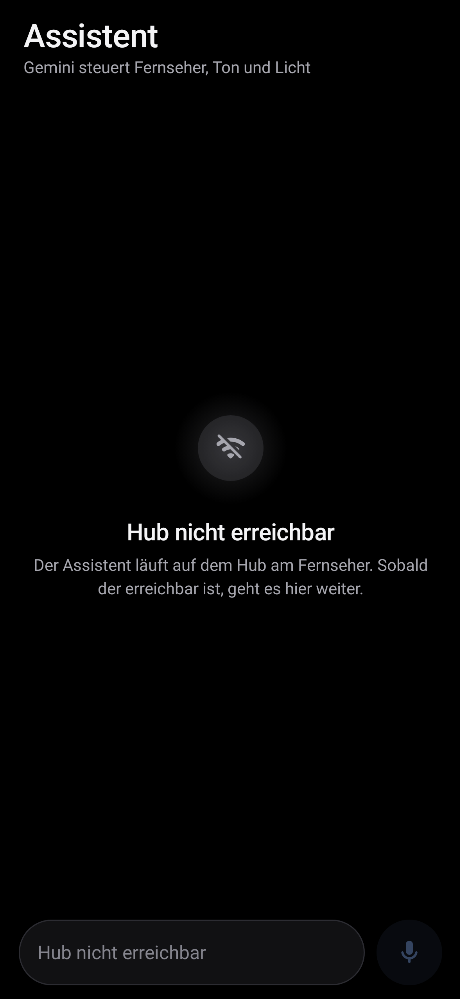
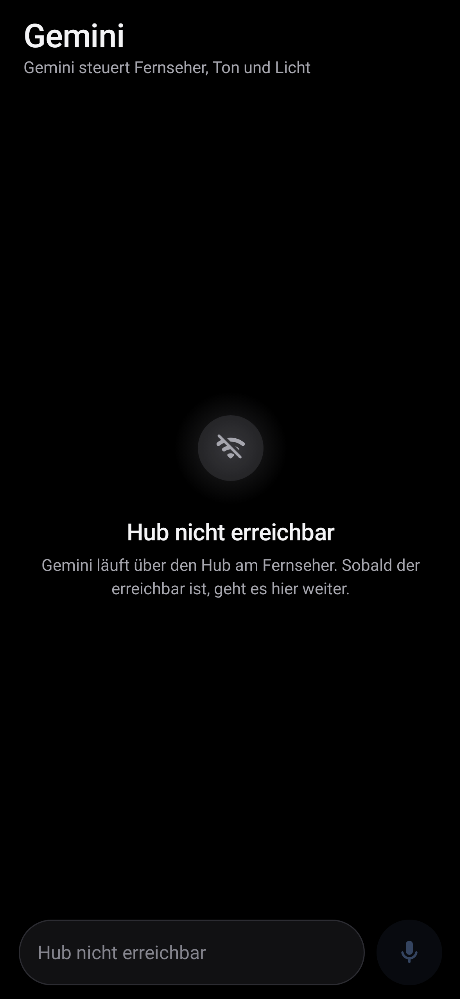
Use the hub's terms: Display aus, Smart Home, Gemini
Same words on TV and phone: "Bild aus" -> "Display aus", "Zuhause" ->
"Smart Home", "Assistent" -> "Gemini" (tab, screen, widget, tile,
notification, shortcuts, README). Screenshots regenerated.

Changed region(s): [[0.0609, 0.5586, 0.9435, 0.6206], [0.0609, 0.0, 0.3348, 0.0621]]

diff --git a/app/src/main/java/com/modernlghub/remote/ui/screens/AssistantScreen.kt b/app/src/main/java/com/modernlghub/remote/ui/screens/AssistantScreen.kt
@@ -168,7 +168,7 @@ class AssistantController(
 }
 
 private val SUGGESTIONS = listOf(
-    "Mach das Bild aus, die Musik soll weiterlaufen",
+    "Mach das Display aus, die Musik soll weiterlaufen",
     "PC an und Game Optimizer",
     "Filmabend: TV-Licht an, Netflix starten",
     "Alles aus",
@@ -214,7 +214,7 @@ fun AssistantScreen(
 
     Column(modifier.fillMaxSize()) {
         ScreenHeader(
-            "Assistent",
+            "Gemini",
             subtitle = "Gemini steuert Fernseher, Ton und Licht",
             modifier = Modifier.padding(horizontal = Spacing.Gutter).padding(top = Spacing.s),
         ) {
@@ -231,7 +231,7 @@ fun AssistantScreen(
                 online && !hasKey -> KeyCard(saveKey, Modifier.verticalScroll(rememberScrollState()))
                 !online && messages.isEmpty() -> StatePanel(
                     title = "Hub nicht erreichbar",
-                    body = "Der Assistent läuft auf dem Hub am Fernseher. Sobald der erreichbar ist, geht es hier weiter.",
+                    body = "Gemini läuft über den Hub am Fernseher. Sobald der erreichbar ist, geht es hier weiter.",
                     icon = Icons.Rounded.WifiOff,
                     tint = TextSecondary,
                     modifier = Modifier.fillMaxSize(),
@@ -396,7 +396,7 @@ private fun ThinkingIndicator() {
     val reduce = LocalReduceMotion.current
     val t = rememberInfiniteTransition(label = "thinking")
     Row(
-        Modifier.semantics { contentDescription = "Assistent denkt nach" },
+        Modifier.semantics { contentDescription = "Gemini denkt nach" },
         verticalAlignment = Alignment.CenterVertically,
     ) {
         Icon(Icons.Rounded.AutoAwesome, contentDescription = null, tint = Accent, modifier = Modifier.size(18.dp))

diff --git a/app/src/main/java/com/modernlghub/remote/system/TvPresenceService.kt b/app/src/main/java/com/modernlghub/remote/system/TvPresenceService.kt
@@ -194,7 +194,7 @@ class TvPresenceService : Service() {
         state.connection == Connection.CONNECTING -> "Verbinde …"
         !state.isOnline -> "Aus"
         state.status.isStandby -> "Standby"
-        state.status.screenOff -> "Bild aus · ${state.status.audio.outputLabel}"
+        state.status.screenOff -> "Display aus · ${state.status.audio.outputLabel}"
         else -> state.status.audio.outputLabel
     }
 
@@ -213,7 +213,7 @@ class TvPresenceService : Service() {
 
         if (on) {
             builder.addAction(action(R.drawable.ic_play, if (playing) "Pause" else "Wiedergabe", ACTION_PLAY, null, 1))
-            builder.addAction(action(R.drawable.ic_oled_off, if (state.status.screenOff) "Bild an" else "Bild aus", null, TvAction.SCREEN.key, 2))
+            builder.addAction(action(R.drawable.ic_oled_off, if (state.status.screenOff) "Display an" else "Display aus", null, TvAction.SCREEN.key, 2))
             builder.addAction(action(R.drawable.ic_mute, if (state.status.audio.muted) "Ton an" else "Stumm", null, TvAction.MUTE.key, 3))
             builder.setStyle(Notification.MediaStyle().setMediaSession(session.sessionToken).setShowActionsInCompactView(0, 1, 2))
         } else {

diff --git a/app/src/main/java/com/modernlghub/remote/data/TvRepository.kt b/app/src/main/java/com/modernlghub/remote/data/TvRepository.kt
@@ -543,7 +543,7 @@ class TvRepository private constructor(private val appContext: Context) {
             notify(
                 when {
                     res is HubResult.Rejected && res.code == 401 -> "Hub verlangt einen gültigen Token (Einstellungen)"
-                    res is HubResult.Rejected -> "Zuhause: ${res.message}"
+                    res is HubResult.Rejected -> "Smart Home: ${res.message}"
                     else -> "Hub antwortet nicht"
                 }
             )
@@ -551,11 +551,11 @@ class TvRepository private constructor(private val appContext: Context) {
         }
         val json = parseObjectOrNull(res.body)
         if (json == null) {
-            notify("Zuhause: unerwartete Antwort")
+            notify("Smart Home: unerwartete Antwort")
             return null
         }
         if (json.str("status") == "error" || json.opt("success") == false) {
-            notify("Zuhause: ${json.str("error").ifBlank { "Fehler" }}")
+            notify("Smart Home: ${json.str("error").ifBlank { "Fehler" }}")
             return null
         }
         return json

diff --git a/app/src/main/java/com/modernlghub/remote/ui/screens/RemoteHeader.kt b/app/src/main/java/com/modernlghub/remote/ui/screens/RemoteHeader.kt
@@ -105,7 +105,7 @@ internal fun statusLine(state: TvState): Pair<Color, String> {
         state.connection == Connection.UNAUTHORIZED -> StatusWarn to "Hub verlangt einen Token"
         state.connection == Connection.OFFLINE -> StatusOff to "Aus oder nicht erreichbar"
         s.isStandby -> StatusWarn to "Standby"
-        s.screenOff -> StatusWarn to "Bild aus · ${s.audio.outputLabel}"
+        s.screenOff -> StatusWarn to "Display aus · ${s.audio.outputLabel}"
         else -> {
             val app = state.appTitle().ifBlank { "Eingeschaltet" }
             StatusOn to "$app · ${s.audio.outputLabel}"
@@ -189,7 +189,7 @@ internal fun RemoteStatePanel(
         )
         else -> StatePanel(
             title = "Fernseher im Standby",
-            body = "Der Hub ist erreichbar, das Bild ist aus.",
+            body = "Der Hub ist erreichbar, das Display ist aus.",
             icon = Icons.Rounded.Tv,
             primary = wake,
             modifier = panel,

diff --git a/app/src/main/java/com/modernlghub/remote/ui/screens/RemoteControls.kt b/app/src/main/java/com/modernlghub/remote/ui/screens/RemoteControls.kt
@@ -119,8 +119,8 @@ internal fun QuickChips(
                 onLongClickLabel = "Audioausgabe wählen", onLongClick = onSoundMenu, onClick = onSound,
             )
             ToggleChip(
-                "Bild aus", active = s.screenOff, icon = Icons.Rounded.DesktopAccessDisabled, modifier = w(1.1f), showIcon = icons,
-                stateLabel = if (s.screenOff) "Bild ist aus" else "Bild ist an", onClick = onScreen,
+                "Display aus", active = s.screenOff, icon = Icons.Rounded.DesktopAccessDisabled, modifier = w(1.1f), showIcon = icons,
+                stateLabel = if (s.screenOff) "Display ist aus" else "Display ist an", onClick = onScreen,
             )
             ToggleChip(
                 "PC", active = s.currentAppId == PC_INPUT_ID, icon = Icons.Rounded.Computer, modifier = w(0.7f), showIcon = icons,

diff --git a/app/src/main/java/com/modernlghub/remote/system/QuickRemoteOverlayActivity.kt b/app/src/main/java/com/modernlghub/remote/system/QuickRemoteOverlayActivity.kt
@@ -232,8 +232,8 @@ fun QuickRemotePanel(state: TvState, actions: OverlayActions, onClose: () -> Uni
                         onClick = actions::sound,
                     )
                     ToggleChip(
-                        "Bild aus", active = state.status.screenOff, icon = Icons.Rounded.DesktopAccessDisabled,
-                        stateLabel = if (state.status.screenOff) "Bild ist aus" else "Bild ist an", modifier = Modifier.weight(1f),
+                        "Display aus", active = state.status.screenOff, icon = Icons.Rounded.DesktopAccessDisabled,
+                        stateLabel = if (state.status.screenOff) "Display ist aus" else "Display ist an", modifier = Modifier.weight(1f),
                         onClick = actions::screen,
                     )
                 }

diff --git a/app/src/main/java/com/modernlghub/remote/ui/screens/SmartHomeScreen.kt b/app/src/main/java/com/modernlghub/remote/ui/screens/SmartHomeScreen.kt
@@ -86,7 +86,7 @@ import kotlinx.coroutines.launch
 private const val LIGHT_UPDATE_INTERVAL_MS = 220L
 
 /**
- * State of the Zuhause tab. Lives above the tab switcher, so the device list, pending toggles and
+ * State of the Smart Home tab. Lives above the tab switcher, so the device list, pending toggles and
  * the last lamp update survive switching tabs (they used to be cancelled mid-flight).
  */
 @Stable
@@ -193,7 +193,7 @@ fun SmartHomeScreen(
     ) {
         item(span = { GridItemSpan(maxLineSpan) }, key = "header") {
             ScreenHeader(
-                "Zuhause",
+                "Smart Home",
                 subtitle = when {
                     devices == null -> "Lichter und Steckdosen"
                     list.isEmpty() -> "Lichter und Steckdosen"

diff --git a/app/src/main/java/com/modernlghub/remote/data/TvAction.kt b/app/src/main/java/com/modernlghub/remote/data/TvAction.kt
@@ -8,7 +8,7 @@ import com.modernlghub.remote.R
  */
 enum class TvAction(val key: String, val label: String, val shortLabel: String, val iconRes: Int) {
     POWER("power", "Ein / Aus", "Power", R.drawable.ic_power),
-    SCREEN("screen_off", "Bildschirm aus / an (Audio läuft weiter)", "Display", R.drawable.ic_oled_off),
+    SCREEN("screen_off", "Display aus / an (Audio läuft weiter)", "Display", R.drawable.ic_oled_off),
     PC("pc", "PC (HDMI 1)", "PC", R.drawable.ic_pc),
     REMOTE("overlay", "Mini-Fernbedienung öffnen", "Remote", R.drawable.ic_remote),
     AUDIO("audio_toggle", "Audio: Denon ⇄ TV", "Audio", R.drawable.ic_audio),

diff --git a/app/src/test/java/com/modernlghub/remote/data/HubCompatibilityTest.kt b/app/src/test/java/com/modernlghub/remote/data/HubCompatibilityTest.kt
@@ -74,7 +74,7 @@ class HubCompatibilityTest {
     @Test
     fun `history uses the hub's role names`() {
         val json = AssistantTurn.toJson(
-            listOf(AssistantTurn(true, "Bild aus"), AssistantTurn(false, "Erledigt."), AssistantTurn(true, " "))
+            listOf(AssistantTurn(true, "Display aus"), AssistantTurn(false, "Erledigt."), AssistantTurn(true, " "))
         )
         assertEquals(2, json.length())
         assertEquals("user", json.getJSONObject(0).getString("role"))

diff --git a/app/src/main/java/com/modernlghub/remote/ui/MainActivity.kt b/app/src/main/java/com/modernlghub/remote/ui/MainActivity.kt
@@ -123,8 +123,8 @@ private data class Tab(val label: String, val icon: ImageVector)
 private val TABS = listOf(
     Tab("Fernbedienung", Icons.Rounded.SettingsRemote),
     Tab("Apps", Icons.Rounded.Apps),
-    Tab("Zuhause", Icons.Rounded.Lightbulb),
-    Tab("Assistent", Icons.Rounded.AutoAwesome),
+    Tab("Smart Home", Icons.Rounded.Lightbulb),
+    Tab("Gemini", Icons.Rounded.AutoAwesome),
 )
 
 private const val SETTINGS = -1

diff --git a/app/src/main/java/com/modernlghub/remote/system/TvRemoteWidgetProvider.kt b/app/src/main/java/com/modernlghub/remote/system/TvRemoteWidgetProvider.kt
@@ -94,7 +94,7 @@ class TvRemoteWidgetProvider : AppWidgetProvider() {
             state.waking -> "Wird eingeschaltet …"
             !state.isOnline -> "Aus"
             state.status.isStandby -> "Standby"
-            state.status.screenOff -> "Bild aus"
+            state.status.screenOff -> "Display aus"
             else -> state.appTitle().ifBlank { "An" }
         }
 

diff --git a/README.md b/README.md
@@ -3,13 +3,13 @@
 Android-Fernbedienung für den **LG OLED G4** mit gerootetem webOS und
 [Modern-LG-Hub](https://github.com/paulhoehne2006-a11y/Modern-LG-Hub). Spricht direkt
 mit dem Hub auf dem Fernseher (`http://<tv-ip>:8080`), ohne Cloud. Nur der Mauszeiger braucht eine
-einmalige Kopplung am TV, nur der Assistent nutzt Gemini (Google).
+einmalige Kopplung am TV, nur Gemini nutzt die Google-Cloud.
 
 <p>
   <img src="docs/screenshots/remote_netflix.png" width="200" alt="Fernbedienung" />
   <img src="docs/screenshots/remote_pc_dpad.png" width="200" alt="Steuerkreuz am PC-Eingang" />
   <img src="docs/screenshots/apps.png" width="200" alt="Apps" />
-  <img src="docs/screenshots/smarthome.png" width="200" alt="Zuhause" />
+  <img src="docs/screenshots/smarthome.png" width="200" alt="Smart Home" />
   <img src="docs/screenshots/smarthome_light.png" width="200" alt="Helligkeit und Farbe" />
 </p>
 
@@ -19,7 +19,7 @@ einmalige Kopplung am TV, nur der Assistent nutzt Gemini (Google).
 - Wischfeld: ein Schritt pro ~36 dp, achsenstabil (keine Doppelschritte bei schrägem Wischen),
   weit wischen und Finger liegen lassen = Dauerscrollen, Tippen = OK
 - Alternativ klassisches Steuerkreuz (Halten wiederholt) oder Mauszeiger (webOS Magic Remote)
-- Schnellschalter: Audioausgabe Denon ⇄ TV (lange drücken für alle Ausgänge), Bild aus/an
+- Schnellschalter: Audioausgabe Denon ⇄ TV (lange drücken für alle Ausgänge), Display aus/an
   (Audio läuft weiter), PC (HDMI 1), Bildmodus
 - Lautstärke über die Tasten des Handys oder −/+ (Halten wiederholt; beim Loslassen stoppt der TV sofort), Texteingabe mit der Handytastatur (live ins Suchfeld),
   Ziffern, Farb- und Medientasten
@@ -28,8 +28,8 @@ einmalige Kopplung am TV, nur der Assistent nutzt Gemini (Google).
 
 **Weitere Bereiche**
 - **Apps** – alle Apps und HDMI-Eingänge mit echten Icons vom Fernseher
-- **Zuhause** – WiZ-Lampen und Tapo-Steckdosen, lokal über den Hub, nach Räumen sortiert; Lampen mit Helligkeit, Farbe, Sättigung und Weißlicht (lange drücken oder Regler-Symbol)
-- **Assistent** – Gemini-Befehle per Text oder Sprache („Bild aus, Musik soll weiterlaufen“)
+- **Smart Home** – WiZ-Lampen und Tapo-Steckdosen, lokal über den Hub, nach Räumen sortiert; Lampen mit Helligkeit, Farbe, Sättigung und Weißlicht (lange drücken oder Regler-Symbol)
+- **Gemini** – Befehle per Text oder Sprache („Display aus, Musik soll weiterlaufen“)
 
 **System-Integration (One UI)**
 - Schnelleinstellungs-Kachel öffnet die Mini-Fernbedienung; 2×2-Widget mit vier frei belegbaren Tasten
@@ -37,7 +37,7 @@ einmalige Kopplung am TV, nur der Assistent nutzt Gemini (Google).
 - Optionale *Live-Steuerung*: Steuerung im Sperrbildschirm / in der Now Bar, die Medienlautstärke
   regelt den TV; fragt den TV nur im Heimnetz (WLAN/Ethernet) ab und seltener, solange er aus ist
 - App-Verknüpfungen und Ziel für *Modi und Routinen*
-  (Intent `com.modernlghub.remote.action.SHORTCUT`, Extra `action` = `screen_off` (Bild aus/an),
+  (Intent `com.modernlghub.remote.action.SHORTCUT`, Extra `action` = `screen_off` (Display aus/an),
   `pc`, `audio_toggle`, `power` (umschalten), `power_on`, `power_off`, `mute`, `play_pause`, `home`,
   `netflix`, `youtube`, `spotify`, `overlay`)
 
@@ -69,7 +69,7 @@ Pushes auf `main` aktualisieren zusätzlich das Release `latest`.
 | `data/TvRepository.kt` | Zustand des Fernsehers, Polling bei sichtbarer UI oder aktiver Live-Steuerung, geordnete Tasten-Queue, Wake-on-LAN, Hub-Suche |
 | `data/HubApi.kt` | HTTP zum Hub mit eigenen Timeouts pro Aufruf |
 | `data/WebOsPointerClient.kt` | Mauszeiger über webOS SSAP (`wss://tv:3001`), Kopplung wird gespeichert |
-| `ui/screens/` | Fernbedienung, Apps, Zuhause, Assistent, Einstellungen |
+| `ui/screens/` | Fernbedienung, Apps, Smart Home, Gemini, Einstellungen |
 | `system/` | Mini-Fernbedienung, Kachel, Widget, Verknüpfungen, Live-Steuerung |
 
 `app/src/main/assets/webos_pairing.json` stammt aus [lgtv2](https://github.com/hobbyquaker/lgtv2) (MIT).
